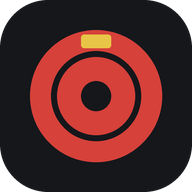
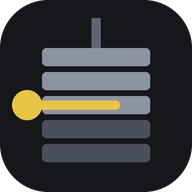
feat(frontend): renomeia o app para Pino com novo ícone
O ícone mostra a torre de placas da máquina com o pino seletor
encaixado; o visual Anilha (cores e fontes) continua o mesmo.

diff --git a/frontend/src/views/RoutineView.vue b/frontend/src/views/RoutineView.vue
@@ -84,7 +84,7 @@ function onReorder() {
     <header class="pt-safe sticky top-0 z-10 bg-bg/95 backdrop-blur">
       <div class="flex items-center gap-2 px-4 pt-3">
         <h1 class="flex flex-1 items-center gap-2 font-display text-2xl font-extrabold tracking-wide uppercase">
-          <img src="/icon.svg" alt="" class="h-7 w-7 rounded-lg" />Anilha
+          <img src="/icon.svg" alt="" class="h-7 w-7 rounded-lg" />Pino
         </h1>
         <span v-if="routine.pending" class="text-xs text-warn" title="Alterações aguardando conexão">
           ● {{ routine.pending }} pendente{{ routine.pending > 1 ? 's' : '' }}

diff --git a/frontend/src/views/LoginView.vue b/frontend/src/views/LoginView.vue
@@ -28,7 +28,7 @@ async function submit() {
   <main class="grid min-h-dvh place-items-center px-6">
     <form class="flex w-full max-w-xs flex-col gap-3" @submit.prevent="submit">
       <img src="/icon.svg" alt="" class="mx-auto mb-2 h-16 w-16" />
-      <h1 class="text-center font-display text-4xl font-extrabold tracking-wide uppercase">Anilha</h1>
+      <h1 class="text-center font-display text-4xl font-extrabold tracking-wide uppercase">Pino</h1>
       <input
         v-model="password"
         type="password"

diff --git a/frontend/index.html b/frontend/index.html
@@ -9,8 +9,8 @@
     <meta name="apple-mobile-web-app-status-bar-style" content="black-translucent" />
     <link rel="icon" href="/icon.svg" type="image/svg+xml" />
     <link rel="apple-touch-icon" href="/apple-touch-icon.png" />
-    <meta name="apple-mobile-web-app-title" content="Anilha" />
-    <title>Anilha</title>
+    <meta name="apple-mobile-web-app-title" content="Pino" />
+    <title>Pino</title>
   </head>
   <body>
     <div id="app"></div>

diff --git a/frontend/vite.config.ts b/frontend/vite.config.ts
@@ -12,8 +12,8 @@ export default defineConfig({
       registerType: 'autoUpdate',
       includeAssets: ['icon.svg', 'apple-touch-icon.png'],
       manifest: {
-        name: 'Anilha',
-        short_name: 'Anilha',
+        name: 'Pino',
+        short_name: 'Pino',
         description: 'Sua ficha de treino, editável em um toque.',
         lang: 'pt-BR',
         start_url: '/',

diff --git a/frontend/src/main.css b/frontend/src/main.css
@@ -3,7 +3,7 @@
 @import '@fontsource-variable/figtree';
 
 /*
- * Anilha identity. Colors are semantic tokens so components never name a hue;
+ * Pino visual identity. Colors are semantic tokens so components never name a hue;
  * dark is the default and a light palette follows the OS setting.
  * Plate colors follow competition bumper plates and tag each workout.
  */

diff --git a/README.md b/README.md
@@ -1,4 +1,4 @@
-# Ficha de Academia
+# Pino
 
 PWA pessoal para acompanhar a ficha de treino com o mínimo de atrito. A ficha é a fonte da verdade: você edita carga/reps direto nela e o histórico de evolução é gerado automaticamente (1 ponto por dia em que algo mudou).
 
